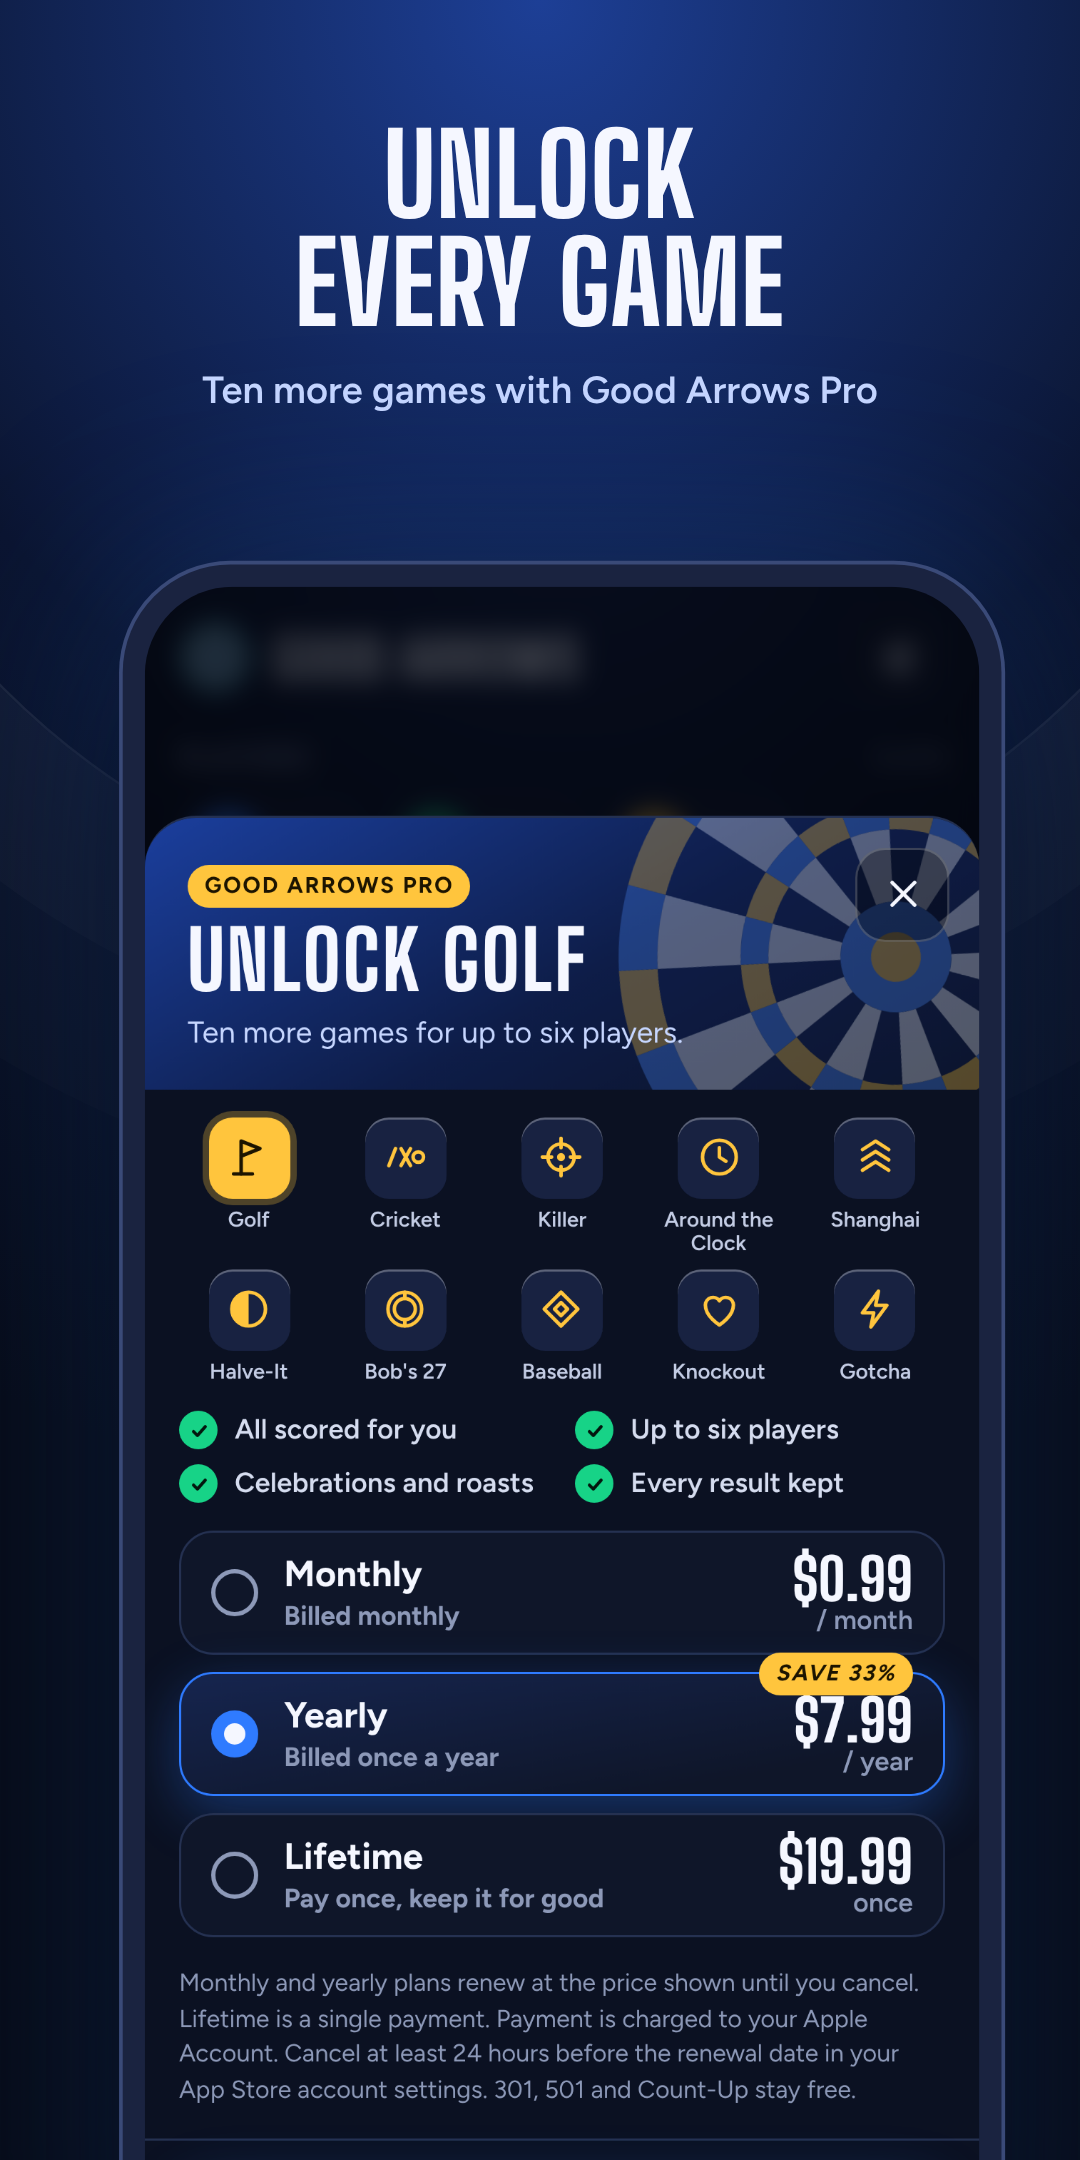
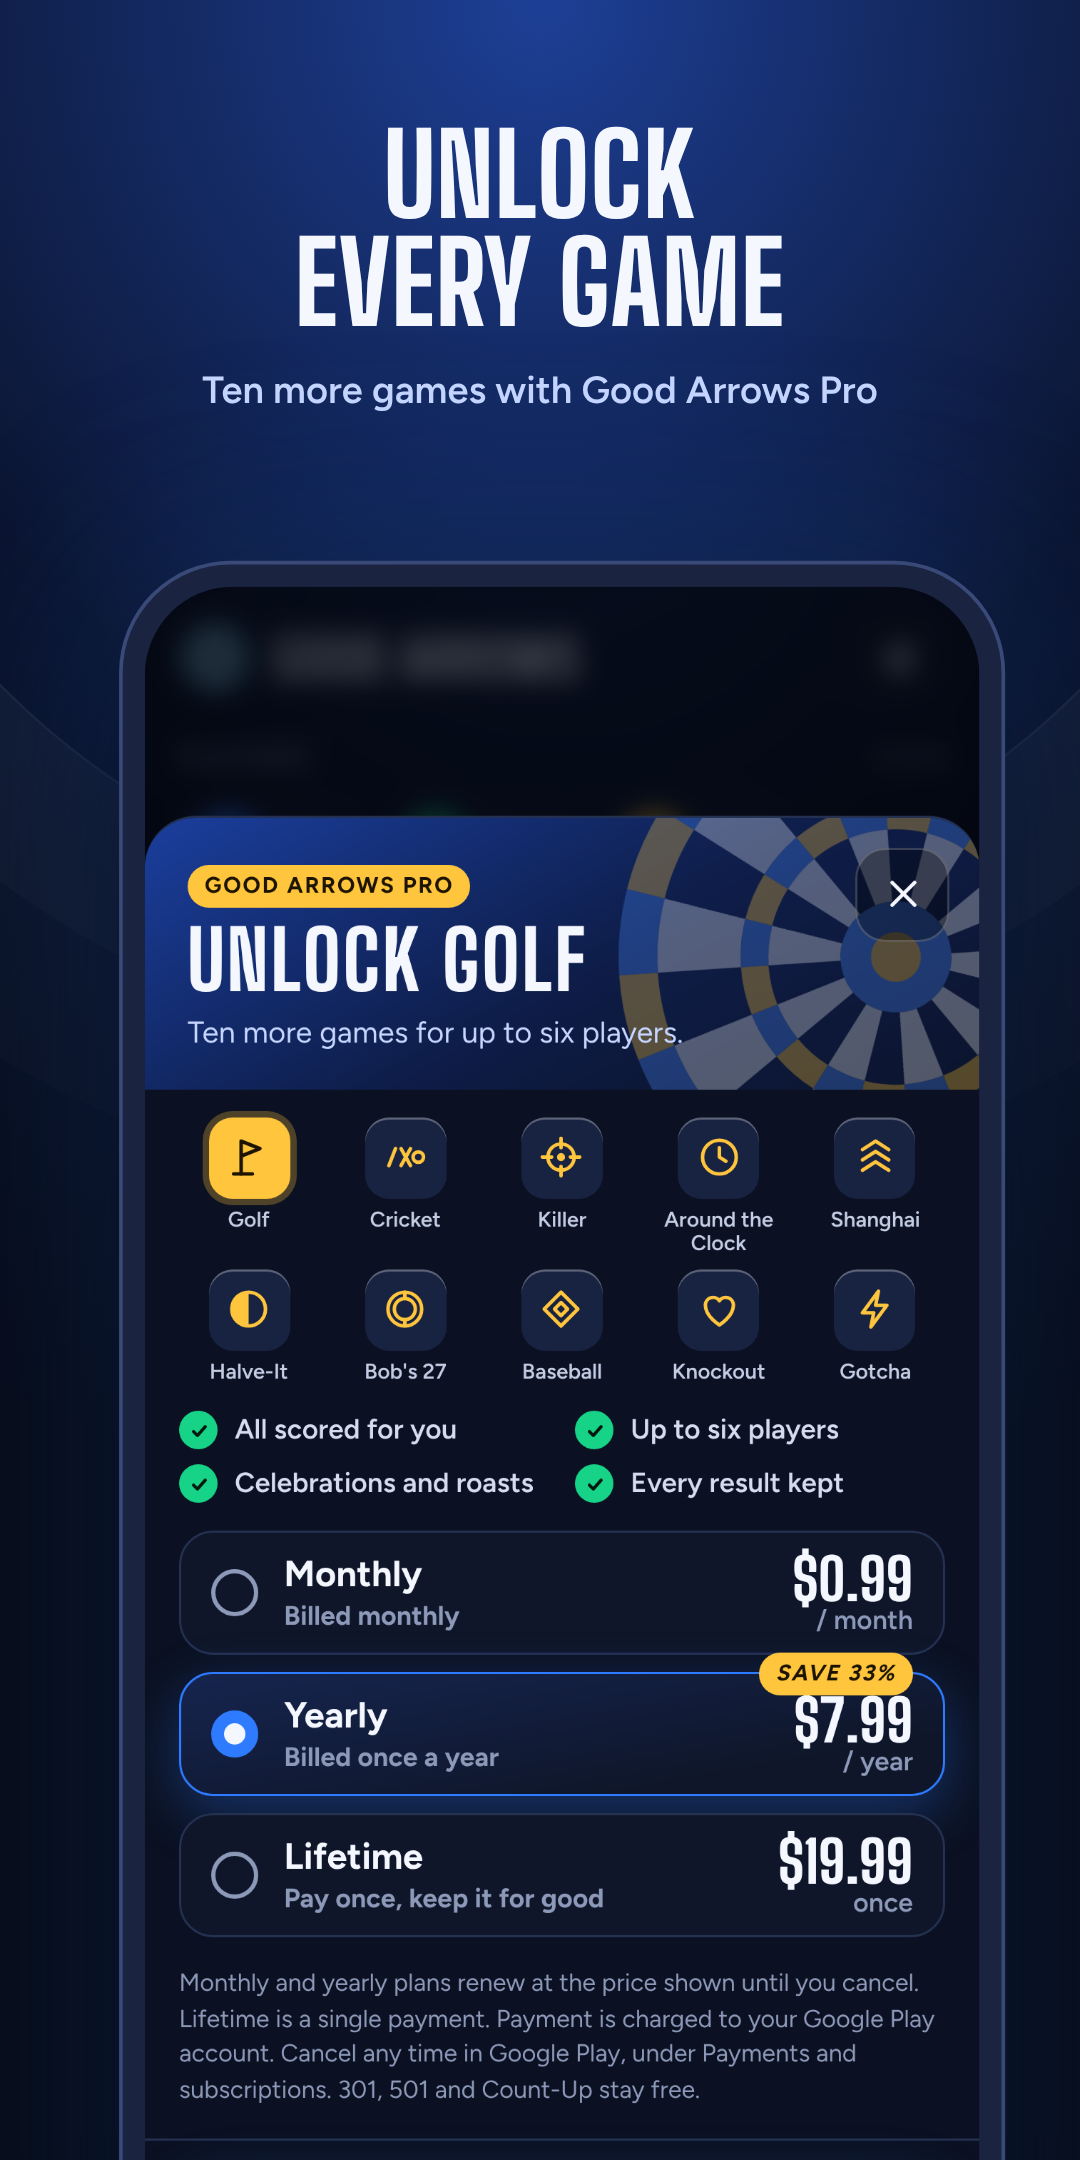
Use Google Play wording in the Android build
On Android the paywall small print, the restore message and the Manage
link now refer to Google Play instead of Apple. There is no terms link
on Android, since Play has no standard EULA (termsUrlAndroid can be set
later). iOS keeps its existing text and links.

The privacy policy now covers purchases through Apple or Google, and
the website says the app is coming to iPhone and Android. The Play
paywall screenshot is re-rendered with the Android wording, and the
Play listing guide is updated to match.

Claude-Session: https://claude.ai/code/session_01AcbxoEqJvezGc8ycrYGy25

Changed region(s): [[0.1833, 0.9306, 0.8556, 0.9926]]

diff --git a/www/app.js b/www/app.js
@@ -5,6 +5,10 @@
   var E = window.Engine, C = window.APP_CONFIG, Pro = window.Pro, Store = window.Store;
   var $ = function (id) { return document.getElementById(id); };
   var cap = window.Capacitor;
+  var ANDROID = !!(cap && cap.getPlatform && cap.getPlatform() === 'android');   // store wording and links differ by platform
+  var STORE = ANDROID ? { terms: C.termsUrlAndroid, manage: C.manageUrlAndroid, account: 'Google account',
+    fine: 'Monthly and yearly plans renew at the price shown until you cancel. Lifetime is a single payment. Payment is charged to your Google Play account. Cancel any time in Google Play, under Payments and subscriptions. 301, 501 and Count-Up stay free.' }
+    : { terms: C.termsUrl, manage: C.manageUrl, account: 'Apple Account', fine: null };   // iOS keeps the paywall text in index.html
   var haptics = cap && cap.isNativePlatform && cap.isNativePlatform() && cap.registerPlugin ? cap.registerPlugin('Haptics') : null;
   var reduced = window.matchMedia && matchMedia('(prefers-reduced-motion:reduce)').matches;
 
@@ -418,7 +422,7 @@
 
   /* ---------- sheets ---------- */
   function link(href, text) { return '<a href="' + esc(href) + '" target="_blank" rel="noopener">' + text + '</a>'; }
-  function legalLinks() { return (C.privacyUrl ? link(C.privacyUrl, 'Privacy policy') : '') + (C.termsUrl ? link(C.termsUrl, 'Terms of use') : ''); }
+  function legalLinks() { return (C.privacyUrl ? link(C.privacyUrl, 'Privacy policy') : '') + (STORE.terms ? link(STORE.terms, 'Terms of use') : ''); }
   function note(id, text, kind) { var n = $(id); n.textContent = text || ''; n.className = 'note' + (kind ? ' ' + kind : ''); }
   function openSheet(id) { $(id).hidden = false; }
   function closeSheet(id) { $(id).hidden = true; if (document.activeElement && document.activeElement.blur) document.activeElement.blur(); armed = ''; render(); }
@@ -512,7 +516,7 @@
     note(noteId, 'Checking…');
     Pro.restore().then(function (r) {
       if (r === 'restored') note(noteId, 'Pro restored.', 'ok');
-      else if (r === 'none') note(noteId, 'No purchase found for this Apple Account.');
+      else if (r === 'none') note(noteId, 'No purchase found for this ' + STORE.account + '.');
       else note(noteId, 'Purchases are made in the iOS app.');
     }, function (e) { note(noteId, e.message, 'err'); });
   }
@@ -585,7 +589,7 @@
     on('roast', 'change', function (e) { S.set.roast = e.target.checked; save(); });
     on('haptic', 'change', function (e) { S.set.haptic = e.target.checked; save(); tap('MEDIUM'); });
     on('setSub', 'click', function () {
-      if (Pro.state.active && Pro.native) { Pro.manage().then(function (shown) { if (!shown) window.open(C.manageUrl, '_blank'); }); return; }
+      if (Pro.state.active && Pro.native) { Pro.manage().then(function (shown) { if (!shown) window.open(STORE.manage, '_blank'); }); return; }
       $('setSheet').hidden = true; showPaywall();
     });
     on('setRestore', 'click', function () { doRestore('setNote'); });
@@ -620,6 +624,7 @@
   }
 
   /* ---------- boot ---------- */
+  if (STORE.fine) $('payFine').textContent = STORE.fine;
   wire();
   Store.load().then(function (saved) {
     var first = !saved;

diff --git a/scripts/make-store-shots.js b/scripts/make-store-shots.js
@@ -23,7 +23,7 @@ function serve() {
   }).listen(0, () => r(s)); });
 }
 /* Stands in for the native plugins: live-style prices, and Pro on or off. */
-function nativeStub(pro) {
+function nativeStub({ pro, platform }) {
   const pkg = (id, type, p) => ({ identifier: id, packageType: type, product: { title: id, priceString: '$' + p.toFixed(2), price: p } });
   const info = { customerInfo: { entitlements: { active: pro ? { good_arrow_pro: { isActive: true } } : {} } } };
   const plugins = {
@@ -33,7 +33,7 @@ function nativeStub(pro) {
       getOfferings: async () => ({ current: { availablePackages: [pkg('$rc_monthly', 'MONTHLY', 0.99), pkg('$rc_annual', 'ANNUAL', 7.99), pkg('$rc_lifetime', 'LIFETIME', 19.99)] } }) },
     RevenueCatUI: {}
   };
-  window.Capacitor = { isNativePlatform: () => true, registerPlugin: (n) => plugins[n] };
+  window.Capacitor = { isNativePlatform: () => true, getPlatform: () => platform, registerPlugin: (n) => plugins[n] };
   Math.random = (() => { let x = 7; return () => (x = (x * 16807) % 2147483647) / 2147483647; })();   // same Killer numbers every run
 }
 
@@ -56,7 +56,9 @@ const SHOTS = [
     const page = await ctx.newPage();
     page.on('pageerror', (e) => { throw e; });
     await page.route('**/vendor/capacitor.js', (r) => r.fulfill({ contentType: 'text/javascript', body: '' }));
-    await page.addInitScript(nativeStub, pro);
+    // There is no Play key yet, so hand the stand-in plugins a dummy one or the paywall shows no plans.
+    if (PLAY) await page.route('**/config.js', (r) => r.fulfill({ contentType: 'text/javascript', body: fs.readFileSync(path.join(ROOT, 'config.js'), 'utf8').replace("revenueCatKeyAndroid: ''", "revenueCatKeyAndroid: 'goog_screenshot'") }));
+    await page.addInitScript(nativeStub, { pro, platform: PLAY ? 'android' : 'ios' });   // Android shows Google Play wording on the paywall
     await page.goto(base);
     await page.waitForSelector('#playerSheet:not([hidden])');
     await page.fill('#plName', 'Dan'); await page.click('#playerSheet [data-close]');

diff --git a/docs/privacy/index.html b/docs/privacy/index.html
@@ -12,7 +12,7 @@
 </head>
 <body>
 <h1>Good Arrows privacy policy</h1>
-<p>Last updated: 23 November 2026</p>
+<p>Last updated: 24 November 2026</p>
 <p>Good Arrows is a darts scoring app published by Ludis Mgmt Ltd ("we"). This policy explains what the app does with information.</p>
 
 <h2>What stays on your device</h2>
@@ -22,8 +22,8 @@
 <p>The app has no accounts. It shows no adverts, includes no analytics, and does not track you across other apps or websites.</p>
 
 <h2>Subscriptions</h2>
-<p>If you buy Good Arrows Pro, as a subscription or a one-off purchase, the purchase is handled by Apple through your Apple Account. We never see your payment details.</p>
-<p>We use RevenueCat to check whether your purchase is active. RevenueCat receives a random identifier for your installation of the app, your purchase history for this app (product, purchase and renewal dates, and the App Store country and currency), and basic technical details such as the app version and device type. It does not receive your name, email address or player names. RevenueCat's privacy policy is at https://www.revenuecat.com/privacy.</p>
+<p>If you buy Good Arrows Pro, as a subscription or a one-off purchase, the purchase is handled by Apple through your Apple Account on iPhone, or by Google through Google Play on Android. We never see your payment details.</p>
+<p>We use RevenueCat to check whether your purchase is active. RevenueCat receives a random identifier for your installation of the app, your purchase history for this app (product, purchase and renewal dates, and the store country and currency), and basic technical details such as the app version and device type. It does not receive your name, email address or player names. RevenueCat's privacy policy is at https://www.revenuecat.com/privacy.</p>
 
 <h2>Children</h2>
 <p>The app is suitable for general audiences and does not knowingly collect personal information from anyone.</p>

diff --git a/docs/index.html b/docs/index.html
@@ -4,7 +4,7 @@
 <meta charset="utf-8">
 <meta name="viewport" content="width=device-width,initial-scale=1">
 <title>Good Arrows</title>
-<meta name="description" content="Good Arrows is a darts scorer for iPhone. 301, 501 and darts golf, with more games on the way.">
+<meta name="description" content="Good Arrows is a darts scorer for iPhone and Android. Twelve games, from 301 to Killer, for one to six players.">
 <link rel="icon" href="icon.svg" type="image/svg+xml">
 <style>
   :root{--bg:#070B16;--ink:#F5F7FF;--muted:#8D99B8;--green:#2F7BFF;--line:#253151;color-scheme:dark}
@@ -31,7 +31,7 @@
     <li>One to six players, with turn order, lives and honours handled for you</li>
     <li>Busts called, checkouts suggested, and every result kept</li>
   </ul>
-  <p>Good Arrows is coming to the App Store for iPhone.</p>
+  <p>Good Arrows is coming to iPhone and Android.</p>
   <footer>
     <a href="privacy/">Privacy policy</a>
     <span>Support: hello@lud.is</span>

diff --git a/www/index.html b/www/index.html
@@ -152,7 +152,7 @@
         <li>Every result kept</li>
       </ul>
       <div class="plans" id="plans" role="radiogroup" aria-label="Plan"></div>
-      <p class="fine">Monthly and yearly plans renew at the price shown until you cancel. Lifetime is a single payment. Payment is charged to your Apple Account. Cancel at least 24 hours before the renewal date in your App Store account settings. 301, 501 and Count-Up stay free.</p>
+      <p class="fine" id="payFine">Monthly and yearly plans renew at the price shown until you cancel. Lifetime is a single payment. Payment is charged to your Apple Account. Cancel at least 24 hours before the renewal date in your App Store account settings. 301, 501 and Count-Up stay free.</p>
     </div>
     <div class="payfoot">
       <button type="button" class="cta" id="payBuy">Continue</button>

diff --git a/www/config.js b/www/config.js
@@ -17,5 +17,8 @@ window.APP_CONFIG = {
   privacyUrl: 'https://goodarrow.app/privacy', // served from docs/privacy/index.html by GitHub Pages
   termsUrl: 'https://www.apple.com/legal/internet-services/itunes/dev/stdeula/', // Apple's standard EULA
   manageUrl: 'https://apps.apple.com/account/subscriptions',
+  // Android: Google Play has no standard EULA, so no terms link is shown there. Set one if goodarrow.app gets a terms page.
+  termsUrlAndroid: '',
+  manageUrlAndroid: 'https://play.google.com/store/account/subscriptions',
   supportEmail: 'hello@lud.is'
 };

diff --git a/resources/store/play-listing.md b/resources/store/play-listing.md
@@ -4,17 +4,9 @@ Everything needed to set the app up in Play Console, in the order Play Console a
 
 Package name: `com.ludis.goodarrow`. It is permanent once the first build is uploaded.
 
-## 0. Fix before the first upload
+## 0. Android wording (done)
 
-The Android build still carries iPhone wording. Play's reviewers check that paywall terms match the store, so fix these before submitting:
-
-1. **Paywall small print** (`www/index.html`, the `.fine` paragraph) says "Payment is charged to your Apple Account… App Store account settings". On Android it should read Google Play.
-2. **Restore message** (`www/app.js`) says "No purchase found for this Apple Account."
-3. **Links** (`www/config.js`): `termsUrl` points to Apple's EULA and `manageUrl` to apps.apple.com. On Android, manage should go to `https://play.google.com/store/account/subscriptions`. Play has no standard EULA, so either host a short terms page on goodarrow.app or hide the terms link on Android.
-4. **Privacy policy** (`docs/privacy/index.html`) says purchases are handled by Apple. It needs to say "Apple or Google, depending on your device".
-5. **Website** (`docs/index.html`) says "coming to the App Store for iPhone".
-
-Re-render screenshot 6 after fixing item 1 (`node scripts/make-store-shots.js --play`).
+The Android build now shows Google Play wording: the paywall small print, the restore message and the Manage link (`manageUrlAndroid` in `www/config.js`). There's no terms link on Android, as Play has no standard EULA; set `termsUrlAndroid` if goodarrow.app gets a terms page. The privacy policy and website cover both stores. iOS is unchanged.
 
 ## 1. Create app
 
@@ -95,7 +87,7 @@ No account, no ads, no tracking. Privacy policy: https://goodarrow.app/privacy
 |---|---|---|
 | App icon | `icon-512.png` | 512 x 512 PNG, up to 1 MB. Play rounds the corners itself. |
 | Feature graphic | `feature-1024x500.png` | 1024 x 500, no alpha |
-| Phone screenshots | `screenshots/1080x2160/1-games.png` to `5-win.png` | 2 to 8, no taller than 2:1. Upload in order. Add `6-pro.png` once the paywall copy is fixed. |
+| Phone screenshots | `screenshots/1080x2160/1-games.png` to `6-pro.png` | 2 to 8, no taller than 2:1. Upload in order. |
 | Tablet screenshots | Skip | The app is phone-only and portrait |
 | Video | Skip | Optional |
 
@@ -103,7 +95,7 @@ Re-render the icon with `npm run assets`, the feature graphic with `npm run head
 
 ## 4. App content (Policy, App content)
 
-**Privacy policy:** `https://goodarrow.app/privacy`. Update the wording first (item 4 above).
+**Privacy policy:** `https://goodarrow.app/privacy`
 
 **App access:** All functionality is available without any access restrictions. The Pro games are behind a purchase, not a login, so no reviewer credentials are needed.
 
